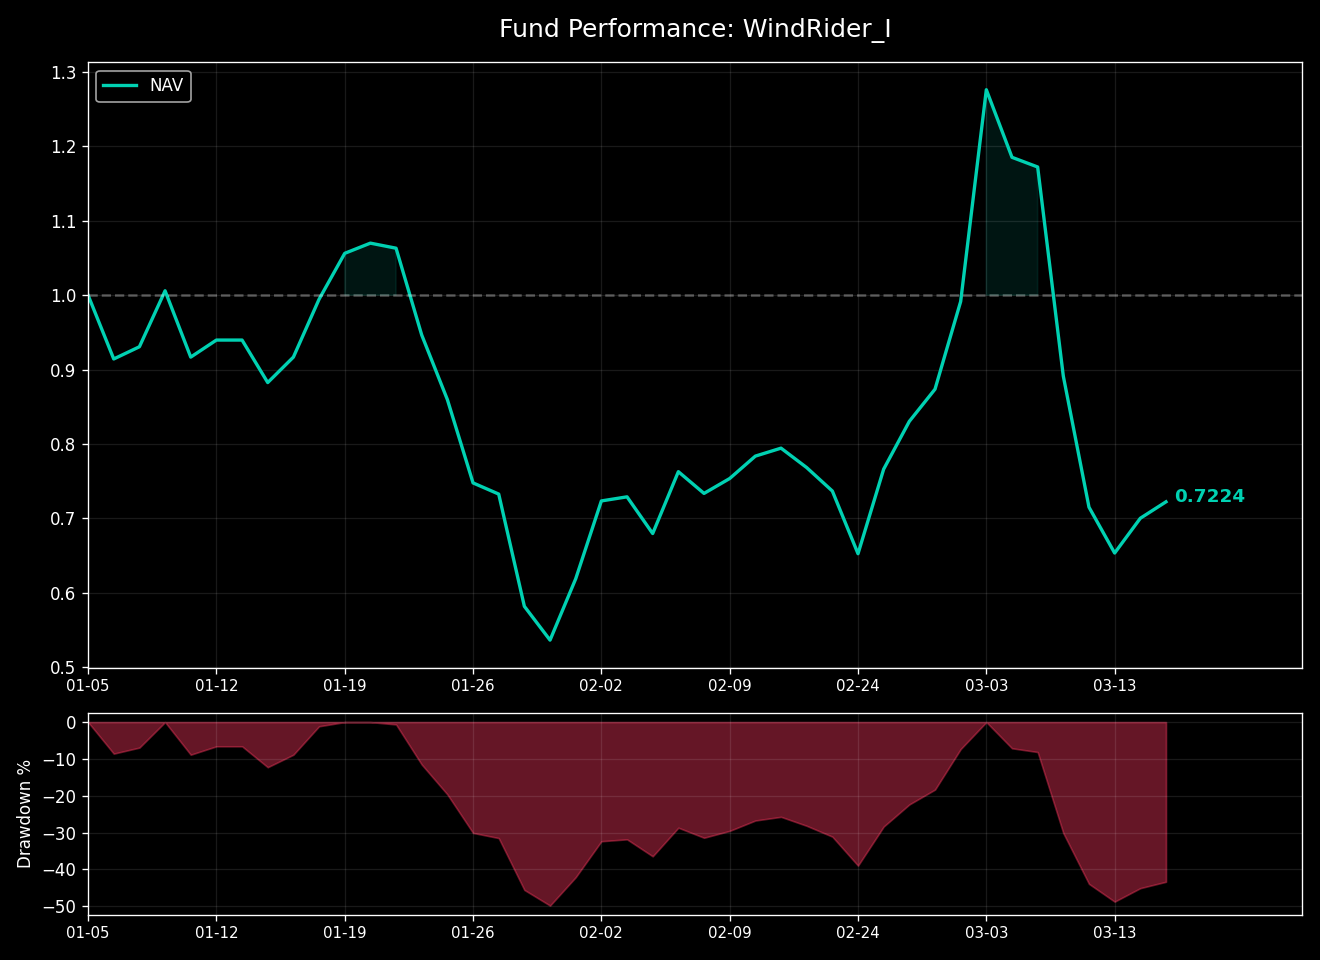
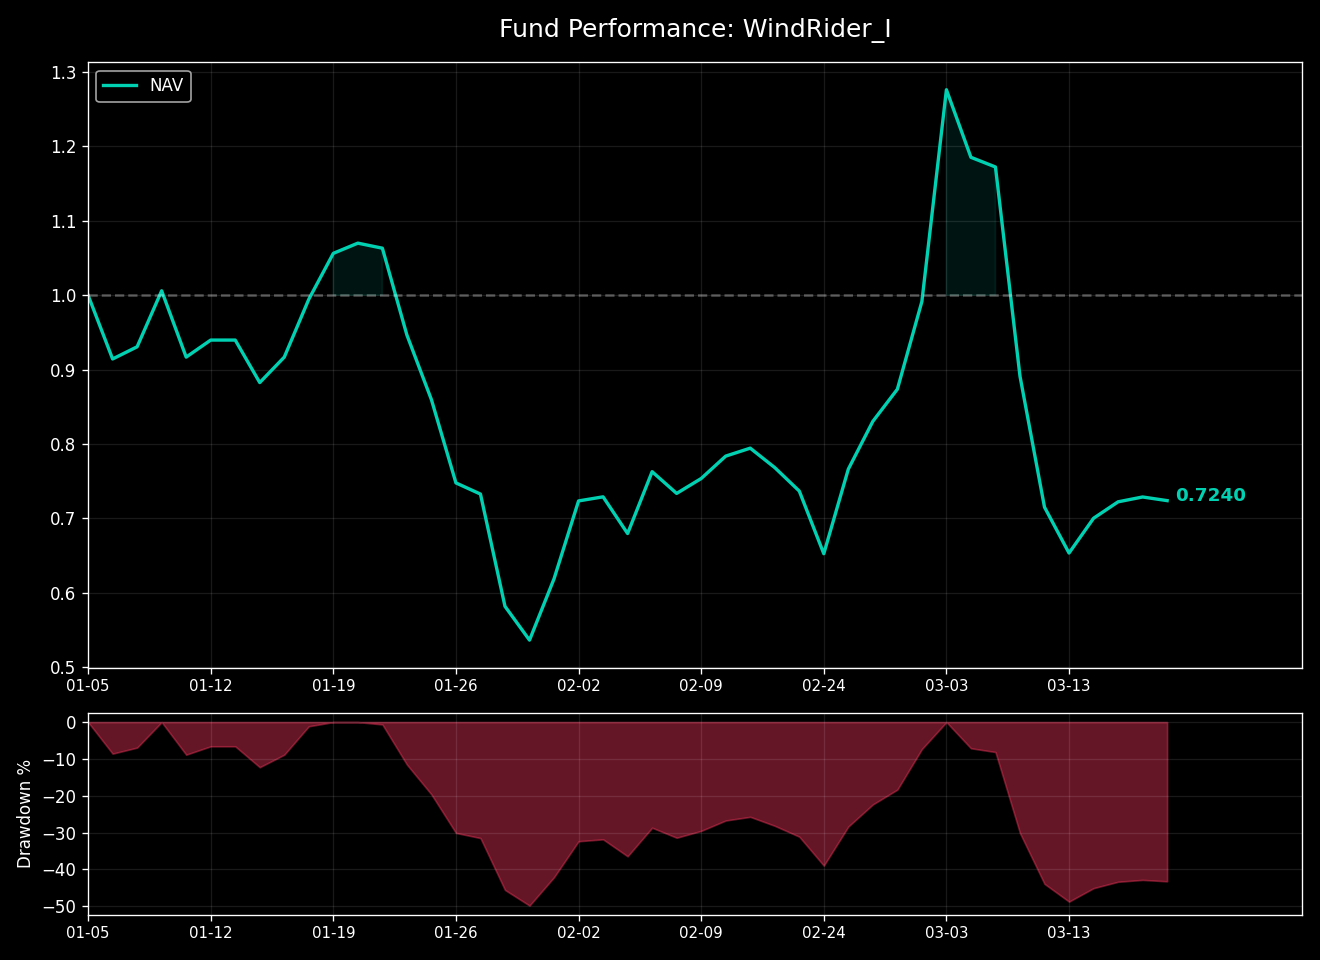
Updated Hugo site content

diff --git a/public/investment/position/index.html b/public/investment/position/index.html
@@ -66,8 +66,8 @@
   <meta property="og:locale" content="zh-cn">
   <meta property="og:type" content="article">
     <meta property="article:section" content="investment">
-    <meta property="article:published_time" content="2026-03-17T15:10:04+08:00">
-    <meta property="article:modified_time" content="2026-03-17T15:10:04+08:00">
+    <meta property="article:published_time" content="2026-03-19T15:10:04+08:00">
+    <meta property="article:modified_time" content="2026-03-19T15:10:04+08:00">
 <meta name="twitter:card" content="summary">
 <meta name="twitter:title" content="如山-股票组合持仓 /// Position">
 <meta name="twitter:description" content="如山股票组合持仓">
@@ -103,11 +103,11 @@
   "keywords": [
     
   ],
-  "articleBody": " 风舵股票组合 /// 每日持仓 WindRider Equity Portfolio 净值简报 (截至: 2026-03-17)\n指数代码： WDR.EQ 成立日期： 2025-11-19 最新净值： 1.0882 今日涨跌： -2.88% ===========================\n核心表现 累计收益： +8.82% 年化收益： +29.88% 最大回撤： -9.56% 基准点位： 4637.44 (CSI300) 策略状态： 已运行 119 天 持仓明细 股票名称 成本价 现价 盈亏 占比 先导智能 300450 52.17 49.84 -4.46% 98.09% 收益率对比曲线 声明：本页面数据为实盘记录，持仓数据每日收盘后更新。\n数据仅供技术交流，不构成投资建议。\n",
+  "articleBody": " 风舵股票组合 /// 每日持仓 WindRider Equity Portfolio 净值简报 (截至: 2026-03-19)\n指数代码： WDR.EQ 成立日期： 2025-11-19 最新净值： 1.0524 今日涨跌： -2.64% ===========================\n核心表现 累计收益： +5.24% 年化收益： +16.81% 最大回撤： -12.18% 基准点位： 4583.25 (CSI300) 策略状态： 已运行 121 天 持仓明细 股票名称 成本价 现价 盈亏 占比 先导智能 300450 52.17 48.17 -7.66% 98.03% 收益率对比曲线 声明：本页面数据为实盘记录，持仓数据每日收盘后更新。\n数据仅供技术交流，不构成投资建议。\n",
   "wordCount" : "47",
   "inLanguage": "zh-cn",
-  "datePublished": "2026-03-17T15:10:04+08:00",
-  "dateModified": "2026-03-17T15:10:04+08:00",
+  "datePublished": "2026-03-19T15:10:04+08:00",
+  "dateModified": "2026-03-19T15:10:04+08:00",
   "mainEntityOfPage": {
     "@type": "WebPage",
     "@id": "https://hankou.com/investment/position/"
@@ -196,7 +196,7 @@
     <div class="post-description">
       如山股票组合持仓
     </div>
-    <div class="post-meta"><span title='2026-03-17 15:10:04 +0800 CST'>March 17, 2026</span>
+    <div class="post-meta"><span title='2026-03-19 15:10:04 +0800 CST'>March 19, 2026</span>
 
 </div>
   </header> 
@@ -205,7 +205,7 @@
 </style>
 <h3 id="风舵股票组合--每日持仓">风舵股票组合   <span style="color: #E63946; font-weight: bold;">/</span><span style="color: #F1A73E; font-weight: bold;">/</span><span style="color: #000091; font-weight: bold;">/</span>   每日持仓<a hidden class="anchor" aria-hidden="true" href="#风舵股票组合--每日持仓">#</a></h3>
 <p>WindRider Equity Portfolio <br>
-净值简报 <small>(截至: 2026-03-17)</small></p>
+净值简报 <small>(截至: 2026-03-19)</small></p>
 <table>
   <thead>
       <tr>
@@ -224,11 +224,11 @@
       </tr>
       <tr>
           <td style="text-align: left"><strong>最新净值：</strong></td>
-          <td style="text-align: left">1.0882</td>
+          <td style="text-align: left">1.0524</td>
       </tr>
       <tr>
           <td style="text-align: left"><strong>今日涨跌：</strong></td>
-          <td style="text-align: left">-2.88%</td>
+          <td style="text-align: left">-2.64%</td>
       </tr>
   </tbody>
 </table>
@@ -243,23 +243,23 @@
   <tbody>
       <tr>
           <td style="text-align: left"><strong>累计收益：</strong></td>
-          <td style="text-align: left">+8.82%</td>
+          <td style="text-align: left">+5.24%</td>
       </tr>
       <tr>
           <td style="text-align: left"><strong>年化收益：</strong></td>
-          <td style="text-align: left">+29.88%</td>
+          <td style="text-align: left">+16.81%</td>
       </tr>
       <tr>
           <td style="text-align: left"><strong>最大回撤：</strong></td>
-          <td style="text-align: left">-9.56%</td>
+          <td style="text-align: left">-12.18%</td>
       </tr>
       <tr>
           <td style="text-align: left"><strong>基准点位：</strong></td>
-          <td style="text-align: left">4637.44 (CSI300)</td>
+          <td style="text-align: left">4583.25 (CSI300)</td>
       </tr>
       <tr>
           <td style="text-align: left"><strong>策略状态：</strong></td>
-          <td style="text-align: left">已运行 119 天</td>
+          <td style="text-align: left">已运行 121 天</td>
       </tr>
   </tbody>
 </table>
@@ -279,9 +279,9 @@
       <tr>
           <td style="text-align: left">先导智能 <small>300450</small></td>
           <td style="text-align: left">52.17</td>
-          <td style="text-align: left">49.84</td>
-          <td style="text-align: left"><span style="color:#2A9D8F">-4.46%</span></td>
-          <td style="text-align: left">98.09%</td>
+          <td style="text-align: left">48.17</td>
+          <td style="text-align: left"><span style="color:#2A9D8F">-7.66%</span></td>
+          <td style="text-align: left">98.03%</td>
           <td></td>
       </tr>
   </tbody>

diff --git a/public/investment/windrider-1/index.html b/public/investment/windrider-1/index.html
@@ -66,8 +66,8 @@
   <meta property="og:locale" content="zh-cn">
   <meta property="og:type" content="article">
     <meta property="article:section" content="investment">
-    <meta property="article:published_time" content="2026-03-17T23:03:41+08:00">
-    <meta property="article:modified_time" content="2026-03-17T23:03:41+08:00">
+    <meta property="article:published_time" content="2026-03-19T21:10:15+08:00">
+    <meta property="article:modified_time" content="2026-03-19T21:10:15+08:00">
 <meta name="twitter:card" content="summary">
 <meta name="twitter:title" content="风舵1号 (WindRider I)  /// 指数">
 <meta name="twitter:description" content="商品期货分形摆动策略实盘">
@@ -103,11 +103,11 @@
   "keywords": [
     
   ],
-  "articleBody": " 风舵1号 (WindRider I) /// 指数 商品期货分形摆动策略实盘\n净值简报 (截至: 2026-03-17)\n指数代码： WDR1.CTA 起步日期： 2026-01-05 最新净值： 0.7224 今日涨跌： +3.16% ===========================\n核心指标 累计涨跌： -27.76% 年化收益： -81.21% 最大回撤： -49.85% 卡玛比率： -1.63 策略状态： 已运行 72 天 净值曲线 声明：本页面数据为实盘记录，持仓数据每日收盘后更新。\n数据仅供技术交流，不构成投资建议。\n",
+  "articleBody": " 风舵1号 (WindRider I) /// 指数 商品期货分形摆动策略实盘\n净值简报 (截至: 2026-03-19)\n指数代码： WDR1.CTA 起步日期： 2026-01-05 最新净值： 0.7240 今日涨跌： -0.67% ===========================\n核心指标 累计涨跌： -27.60% 年化收益： -80.11% 最大回撤： -49.85% 卡玛比率： -1.61 策略状态： 已运行 74 天 净值曲线 声明：本页面数据为实盘记录，持仓数据每日收盘后更新。\n数据仅供技术交流，不构成投资建议。\n",
   "wordCount" : "34",
   "inLanguage": "zh-cn",
-  "datePublished": "2026-03-17T23:03:41+08:00",
-  "dateModified": "2026-03-17T23:03:41+08:00",
+  "datePublished": "2026-03-19T21:10:15+08:00",
+  "dateModified": "2026-03-19T21:10:15+08:00",
   "mainEntityOfPage": {
     "@type": "WebPage",
     "@id": "https://hankou.com/investment/windrider-1/"
@@ -196,7 +196,7 @@
     <div class="post-description">
       商品期货分形摆动策略实盘
     </div>
-    <div class="post-meta"><span title='2026-03-17 23:03:41 +0800 CST'>March 17, 2026</span>
+    <div class="post-meta"><span title='2026-03-19 21:10:15 +0800 CST'>March 19, 2026</span>
 
 </div>
   </header> 
@@ -208,7 +208,7 @@
 </style>
 <h3 id="风舵1号-windrider-i--指数">风舵1号 (WindRider I)   <span style="color: #E63946; font-weight: bold;">/</span><span style="color: #F1A73E; font-weight: bold;">/</span><span style="color: #000091; font-weight: bold;">/</span>   指数<a hidden class="anchor" aria-hidden="true" href="#风舵1号-windrider-i--指数">#</a></h3>
 <p>商品期货分形摆动策略实盘<br>
-净值简报 <small>(截至: 2026-03-17)</small></p>
+净值简报 <small>(截至: 2026-03-19)</small></p>
 <table>
   <thead>
       <tr>
@@ -227,11 +227,11 @@
       </tr>
       <tr>
           <td style="text-align: left"><strong>最新净值：</strong></td>
-          <td style="text-align: left">0.7224</td>
+          <td style="text-align: left">0.7240</td>
       </tr>
       <tr>
           <td style="text-align: left"><strong>今日涨跌：</strong></td>
-          <td style="text-align: left">+3.16%</td>
+          <td style="text-align: left">-0.67%</td>
       </tr>
   </tbody>
 </table>
@@ -246,11 +246,11 @@
   <tbody>
       <tr>
           <td style="text-align: left"><strong>累计涨跌：</strong></td>
-          <td style="text-align: left">-27.76%</td>
+          <td style="text-align: left">-27.60%</td>
       </tr>
       <tr>
           <td style="text-align: left"><strong>年化收益：</strong></td>
-          <td style="text-align: left">-81.21%</td>
+          <td style="text-align: left">-80.11%</td>
       </tr>
       <tr>
           <td style="text-align: left"><strong>最大回撤：</strong></td>
@@ -258,11 +258,11 @@
       </tr>
       <tr>
           <td style="text-align: left"><strong>卡玛比率：</strong></td>
-          <td style="text-align: left">-1.63</td>
+          <td style="text-align: left">-1.61</td>
       </tr>
       <tr>
           <td style="text-align: left"><strong>策略状态：</strong></td>
-          <td style="text-align: left">已运行 72 天</td>
+          <td style="text-align: left">已运行 74 天</td>
       </tr>
   </tbody>
 </table>

diff --git a/public/investment/index.html b/public/investment/index.html
@@ -157,7 +157,7 @@
   <div class="entry-content">
     <p>商品期货分形摆动策略，实盘最新净值与核心风险指标。</p>
   </div>
-  <footer class="entry-footer"><span title='2026-03-17 23:03:41 +0800 CST'>March 17, 2026</span></footer>
+  <footer class="entry-footer"><span title='2026-03-19 21:10:15 +0800 CST'>March 19, 2026</span></footer>
   <a class="entry-link" aria-label="post link to 风舵1号 (WindRider I)  /// 指数" href="https://hankou.com/investment/windrider-1/"></a>
 </article>
 
@@ -169,7 +169,7 @@
   <div class="entry-content">
     <p>主动管理型股票组合。对标沪深300指数，采用基本面选股策略。</p>
   </div>
-  <footer class="entry-footer"><span title='2026-03-17 15:10:04 +0800 CST'>March 17, 2026</span></footer>
+  <footer class="entry-footer"><span title='2026-03-19 15:10:04 +0800 CST'>March 19, 2026</span></footer>
   <a class="entry-link" aria-label="post link to 如山-股票组合持仓 /// Position" href="https://hankou.com/investment/position/"></a>
 </article>
     </main>

diff --git a/content/investment/position.md b/content/investment/position.md
@@ -1,8 +1,8 @@
 +++
 title = "如山-股票组合持仓 /// Position"
 summary = "主动管理型股票组合。对标沪深300指数，采用基本面选股策略。"
-date = 2026-03-19T15:10:04+08:00
-lastmod = 2026-03-19T15:10:04+08:00
+date = 2026-03-20T15:10:05+08:00
+lastmod = 2026-03-20T15:10:05+08:00
 draft = false
 description = "如山股票组合持仓"
 +++
@@ -12,29 +12,29 @@ description = "如山股票组合持仓"
 
 ### 风舵股票组合 &nbsp;&nbsp;<span style="color: #E63946; font-weight: bold;">/</span><span style="color: #F1A73E; font-weight: bold;">/</span><span style="color: #000091; font-weight: bold;">/</span>&nbsp;&nbsp; 每日持仓
 WindRider Equity Portfolio <br>
-净值简报 <small>(截至: 2026-03-19)</small>
+净值简报 <small>(截至: 2026-03-20)</small>
 
 |  |  |
 | :--- | :--- |
 | **指数代码：** | WDR.EQ |
 | **成立日期：** | 2025-11-19 |
-| **最新净值：** | 1.0524 |
-| **今日涨跌：** | -2.64% |
+| **最新净值：** | 1.0704 |
+| **今日涨跌：** | +1.71% |
 
 ===========================
 
 | 核心表现 | |
 | :--- | :--- |
-| **累计收益：** | +5.24% |
-| **年化收益：** | +16.81% |
+| **累计收益：** | +7.04% |
+| **年化收益：** | +22.78% |
 | **最大回撤：** | -12.18% |
-| **基准点位：** | 4583.25 (CSI300) |
-| **策略状态：** | 已运行 121 天 |
+| **基准点位：** | 4567.02 (CSI300) |
+| **策略状态：** | 已运行 122 天 |
 
 ### 持仓明细
 | 股票名称 | 成本价 | 现价 | 盈亏 | 占比 |
 | :--- | :--- | :--- | :--- | :--- | :--- |
-| 先导智能 <small>300450</small> | 52.17 | 48.17 | <span style="color:#2A9D8F">-7.66%</span> | 98.03% |
+| 先导智能 <small>300450</small> | 52.17 | 49.01 | <span style="color:#2A9D8F">-6.05%</span> | 98.06% |
 
 <br>
 
